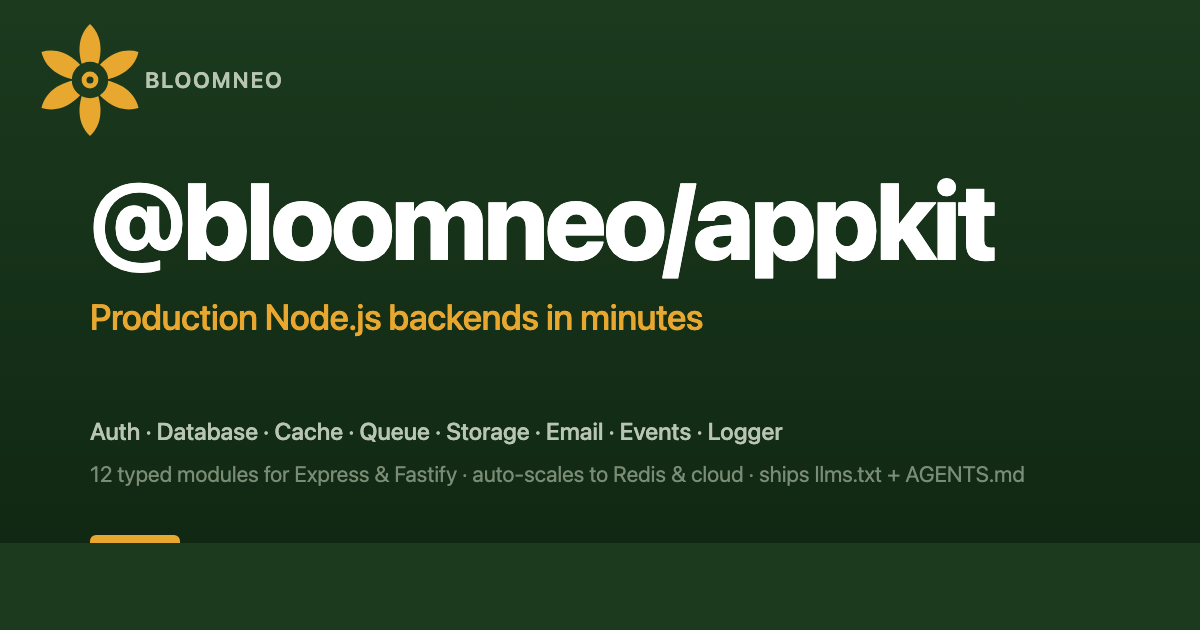
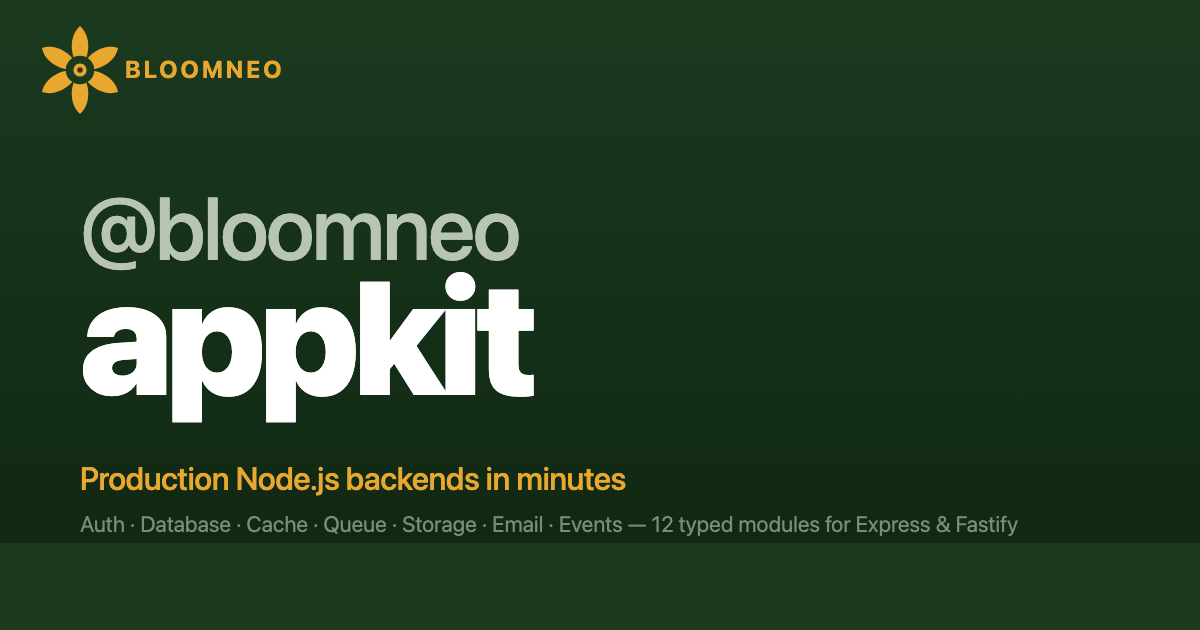
design(appkit): bigger package name in OG + declutter page
OG image:
- @bloomneo/appkit split across two lines with "appkit" at 160px
- BLOOMNEO mark promoted to gold brand accent
- Cleaner hierarchy: brand → handle → package name → tagline

Page declutter:
- "What you can build" → 2-col use-case grid (10 cards)
- "12 modules at a glance" → 3-col compact grid
- Removed 4 duplicate env-var tables (database, security, email, logger)
  — kept single consolidated env reference at the bottom
- Down from 8 tables to 3 (role hierarchy, auto-scaling, env ref)

Changed region(s): [[0.0617, 0.2714, 0.8633, 0.7841], [0.0617, 0.8143, 0.8633, 0.8746], [0.0308, 0.0302, 0.2467, 0.2111]]

diff --git a/appkit/index.html b/appkit/index.html
@@ -94,18 +94,18 @@
   <div class="section">
     <div class="section-label">What you can build</div>
     <h2>One toolkit. Real-world backends.</h2>
-    <p style="margin-bottom:1.25rem;">AppKit is the Node.js backend toolkit teams reach for when they need to ship — not evaluate ten libraries. Use it to build:</p>
-    <ul class="module-list">
-      <li><strong>Multi-tenant SaaS backends</strong><span>Row-level tenant isolation, per-org databases, 9-level role hierarchy, JWT login + API tokens — the full stack for B2B SaaS on one pattern.</span></li>
-      <li><strong>REST &amp; JSON APIs</strong><span>Semantic HTTP errors, async route wrapping, request validation, rate limiting, CSRF — everything a production Express or Fastify API needs out of the box.</span></li>
-      <li><strong>Admin dashboards &amp; internal tools</strong><span>Role-based access control, audit logging, background exports, file uploads — wire an internal tool in an afternoon instead of a sprint.</span></li>
-      <li><strong>AI agent backends &amp; LLM apps</strong><span>Token-authenticated tool endpoints, Redis-backed conversation cache, long-running background jobs, webhook ingestion — the infra layer behind your agent.</span></li>
-      <li><strong>Background job &amp; worker systems</strong><span>Email sending, report generation, webhook fan-out, scheduled cleanup — in-memory for dev, Redis-backed in production, zero code changes.</span></li>
-      <li><strong>File upload &amp; media services</strong><span>Avatars, document storage, signed private downloads, S3/R2 streaming — local disk in dev, cloud storage in prod with the same API.</span></li>
-      <li><strong>Webhook receivers &amp; integrations</strong><span>API-token-authenticated endpoints for Stripe, GitHub, Slack. Replay-safe queue ingestion. Per-route rate limits.</span></li>
-      <li><strong>Transactional email pipelines</strong><span>Welcome emails, password resets, order confirmations, reports. Console logging in dev, Resend or SMTP in prod — one <code>send()</code> call either way.</span></li>
-      <li><strong>Event-driven services</strong><span>Pub/sub across processes via Redis, wildcard subscriptions, namespace isolation — power notifications, audit trails, real-time feeds.</span></li>
-      <li><strong>Scaffolded full-stack apps</strong><span>Pair with <code>@bloomneo/bloom</code> CLI to generate a complete web, desktop (Electron) or mobile (Capacitor) app wired to AppKit modules in one command.</span></li>
+    <p style="margin-bottom:1.5rem;">AppKit is the Node.js backend toolkit teams reach for when they need to ship — not evaluate ten libraries.</p>
+    <ul class="use-case-grid">
+      <li><strong>Multi-tenant SaaS backends</strong><span>Row-level tenant isolation, per-org databases, 9-level role hierarchy, JWT login + API tokens.</span></li>
+      <li><strong>REST &amp; JSON APIs</strong><span>Semantic HTTP errors, async route wrapping, rate limiting, CSRF — Express or Fastify, ready out of the box.</span></li>
+      <li><strong>Admin dashboards &amp; internal tools</strong><span>Role-based access, audit logging, background exports, file uploads — ship an internal tool in an afternoon.</span></li>
+      <li><strong>AI agent backends &amp; LLM apps</strong><span>Token-authenticated tool endpoints, Redis conversation cache, long-running jobs, webhook ingestion.</span></li>
+      <li><strong>Background job &amp; worker systems</strong><span>Emails, reports, webhook fan-out, cleanup — in-memory for dev, Redis-backed in prod, zero code changes.</span></li>
+      <li><strong>File upload &amp; media services</strong><span>Avatars, documents, signed private downloads, S3/R2 streaming — same API in dev and prod.</span></li>
+      <li><strong>Webhook receivers &amp; integrations</strong><span>API-token-authenticated endpoints for Stripe, GitHub, Slack. Replay-safe queue ingestion.</span></li>
+      <li><strong>Transactional email pipelines</strong><span>Welcome, password reset, order confirmations, reports — console in dev, Resend/SMTP in prod.</span></li>
+      <li><strong>Event-driven services</strong><span>Pub/sub across processes via Redis, wildcard subscriptions, namespace isolation.</span></li>
+      <li><strong>Scaffolded full-stack apps</strong><span>Pair with <code>@bloomneo/bloom</code> CLI for web, Electron desktop or Capacitor mobile in one command.</span></li>
     </ul>
   </div>
 
@@ -131,19 +131,19 @@ const cache    = cacheClass.get('users');     // optional namespace for isolatio
   <!-- MODULES OVERVIEW -->
   <div class="section">
     <div class="section-label">12 modules at a glance</div>
-    <ul class="module-list">
-      <li><code>authClass</code><span>JWT login/API tokens, 9-level role hierarchy, Express middleware, password hashing</span></li>
+    <ul class="module-grid">
+      <li><code>authClass</code><span>JWT login, API tokens, roles, middleware, password hashing</span></li>
       <li><code>databaseClass</code><span>Prisma client, multi-tenant filtering, per-org databases</span></li>
-      <li><code>securityClass</code><span>Rate limiting, CSRF protection, AES-256-GCM encryption, input sanitization</span></li>
-      <li><code>errorClass</code><span>Semantic HTTP errors (400–500), async route wrapper, centralized error middleware</span></li>
-      <li><code>cacheClass</code><span>Memory → Redis auto-scaling, <code>getOrSet()</code> pattern, namespace isolation</span></li>
-      <li><code>storageClass</code><span>Local disk → S3/R2 auto-scaling, presigned URLs, file listing, copy</span></li>
-      <li><code>queueClass</code><span>Memory → Redis background jobs, <code>add()</code>, <code>process()</code>, <code>schedule(delayMs)</code></span></li>
-      <li><code>emailClass</code><span>Console → SMTP → Resend auto-scaling, <code>sendTemplate()</code>, batch send</span></li>
-      <li><code>eventClass</code><span>Memory → Redis pub/sub, wildcard patterns, namespace isolation</span></li>
-      <li><code>loggerClass</code><span>Structured logging, multi-transport (console / file / HTTP)</span></li>
-      <li><code>configClass</code><span>Type-safe env access, <code>getRequired()</code>, <code>validateRequired()</code></span></li>
-      <li><code>utilClass</code><span>12 zero-dependency helpers: slugify, uuid, chunk, debounce, clamp, formatBytes, and more</span></li>
+      <li><code>securityClass</code><span>Rate limiting, CSRF, AES-256-GCM encryption, sanitization</span></li>
+      <li><code>errorClass</code><span>Semantic HTTP errors, async route wrapper, error middleware</span></li>
+      <li><code>cacheClass</code><span>Memory → Redis auto-scaling, <code>getOrSet()</code>, namespaces</span></li>
+      <li><code>storageClass</code><span>Local → S3/R2, presigned URLs, file listing</span></li>
+      <li><code>queueClass</code><span>Memory → Redis background jobs, retries, delays</span></li>
+      <li><code>emailClass</code><span>Console → SMTP → Resend, templates, batch send</span></li>
+      <li><code>eventClass</code><span>Memory → Redis pub/sub, wildcards, namespaces</span></li>
+      <li><code>loggerClass</code><span>Structured JSON logs, multi-transport (console/file/HTTP)</span></li>
+      <li><code>configClass</code><span>Type-safe env access, boot-time validation</span></li>
+      <li><code>utilClass</code><span>12 zero-dep helpers: slugify, uuid, chunk, clamp, …</span></li>
     </ul>
   </div>
 
@@ -256,14 +256,6 @@ dbAll.user.groupBy({ by: ['tenant_id'], _count: true })
 
 // Per-org databases (multi-org SaaS)
 const acmeDb = await databaseClass.org('acme').get();  // reads ORG_ACME env var</code></pre>
-    <table style="margin-top:1rem;">
-      <thead><tr><th>Env var</th><th>Purpose</th></tr></thead>
-      <tbody>
-        <tr><td><code>DATABASE_URL</code></td><td>Prisma connection string (required)</td></tr>
-        <tr><td><code>BLOOM_DB_TENANT=auto</code></td><td>Enable automatic multi-tenant filtering</td></tr>
-        <tr><td><code>ORG_&lt;NAME&gt;=postgresql://...</code></td><td>Per-org database URL</td></tr>
-      </tbody>
-    </table>
   </div>
 
   <!-- SECURITY -->
@@ -287,13 +279,6 @@ const plaintext  = security.decrypt(ciphertext);
 const clean    = security.input(userInput);      // strip XSS + control chars
 const safeHtml = security.html(userHtml);        // strip disallowed HTML tags
 const escaped  = security.escape(userText);      // &amp; &lt; &gt; etc.</code></pre>
-    <table style="margin-top:1rem;">
-      <thead><tr><th>Env var</th><th>Purpose</th></tr></thead>
-      <tbody>
-        <tr><td><code>BLOOM_SECURITY_CSRF_SECRET</code></td><td>CSRF token signing (min 32 chars)</td></tr>
-        <tr><td><code>BLOOM_SECURITY_ENCRYPTION_KEY</code></td><td>AES-256-GCM key (64 hex chars)</td></tr>
-      </tbody>
-    </table>
   </div>
 
   <!-- ERROR -->
@@ -435,14 +420,7 @@ await email.sendTemplate('password-reset', {
 
 // Batch
 await email.sendBatch(emailsArray, batchSize?);</code></pre>
-    <table style="margin-top:1rem;">
-      <thead><tr><th>Strategy</th><th>When active</th></tr></thead>
-      <tbody>
-        <tr><td><code>console</code></td><td>Default in dev — logs email to terminal</td></tr>
-        <tr><td><code>smtp</code></td><td><code>SMTP_HOST</code> + <code>SMTP_USER</code> + <code>SMTP_PASS</code> set</td></tr>
-        <tr><td><code>resend</code></td><td><code>RESEND_API_KEY</code> set</td></tr>
-      </tbody>
-    </table>
+    <p style="margin-top:0.75rem;">Default is <code>console</code> in dev. Set <code>RESEND_API_KEY</code> (or <code>SMTP_HOST</code> + <code>SMTP_USER</code> + <code>SMTP_PASS</code>) to switch transports automatically.</p>
   </div>
 
   <!-- EVENT -->
@@ -482,14 +460,7 @@ logger.info('User created', { userId: newUser.id });
 logger.warn('Rate limit approaching', { ip: req.ip, count: 95 });
 logger.error('Database query failed', { error: err.message });
 logger.fatal('Service unresponsive', { service: 'redis' });</code></pre>
-    <table style="margin-top:1rem;">
-      <thead><tr><th>Env var</th><th>Effect</th></tr></thead>
-      <tbody>
-        <tr><td>(none)</td><td>Console transport only (default)</td></tr>
-        <tr><td><code>BLOOM_LOGGER_FILE_PATH=/var/log/app.log</code></td><td>Adds file transport</td></tr>
-        <tr><td><code>BLOOM_LOGGER_HTTP_URL=https://logs.example.com</code></td><td>Adds HTTP transport</td></tr>
-      </tbody>
-    </table>
+    <p style="margin-top:0.75rem;">Console transport by default. Set <code>BLOOM_LOGGER_FILE_PATH</code> for file transport or <code>BLOOM_LOGGER_HTTP_URL</code> for HTTP shipping.</p>
   </div>
 
   <!-- CONFIG -->

diff --git a/assets/style.css b/assets/style.css
@@ -212,6 +212,65 @@ pre code.hljs {
 .module-list li:last-child { border-bottom: none; }
 .module-list code { font-size: 0.82rem; white-space: nowrap; flex-shrink: 0; min-width: 200px; }
 
+/* ── Use-case grid (2-col) ── */
+.use-case-grid {
+  display: grid;
+  grid-template-columns: repeat(2, 1fr);
+  gap: 1rem 1.5rem;
+  list-style: none;
+  padding: 0;
+}
+.use-case-grid li {
+  padding: 1rem 1.25rem;
+  border: 1px solid var(--border);
+  border-radius: 8px;
+  background: var(--surface);
+  display: block;
+}
+.use-case-grid li strong {
+  display: block;
+  font-size: 0.95rem;
+  color: var(--text);
+  margin-bottom: 0.35rem;
+  font-weight: 600;
+}
+.use-case-grid li span {
+  font-size: 0.85rem;
+  color: var(--muted);
+  line-height: 1.6;
+}
+
+/* ── Compact module grid (3-col) ── */
+.module-grid {
+  display: grid;
+  grid-template-columns: repeat(3, 1fr);
+  gap: 0.75rem 1rem;
+  list-style: none;
+  padding: 0;
+}
+.module-grid li {
+  padding: 0.85rem 1rem;
+  border: 1px solid var(--border);
+  border-radius: 8px;
+  display: block;
+}
+.module-grid li code {
+  display: block;
+  font-size: 0.85rem;
+  color: var(--accent);
+  margin-bottom: 0.35rem;
+  font-weight: 600;
+}
+.module-grid li span {
+  font-size: 0.8rem;
+  color: var(--muted);
+  line-height: 1.55;
+}
+
+@media (max-width: 720px) {
+  .use-case-grid, .module-grid { grid-template-columns: 1fr; }
+}
+
 /* ── Table ── */
 table { width: 100%; border-collapse: collapse; font-size: 0.875rem; margin: 1rem 0; }
 th {
